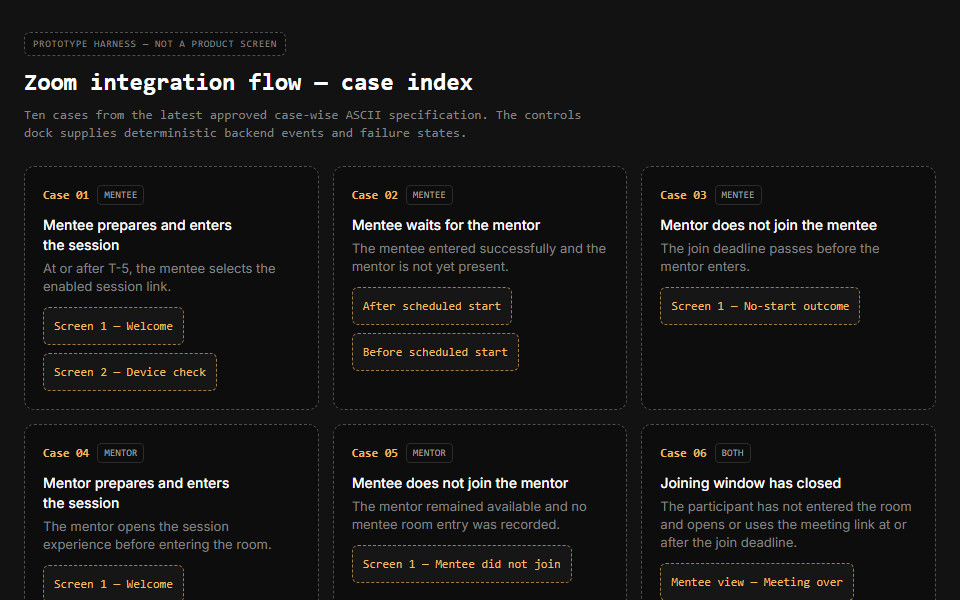
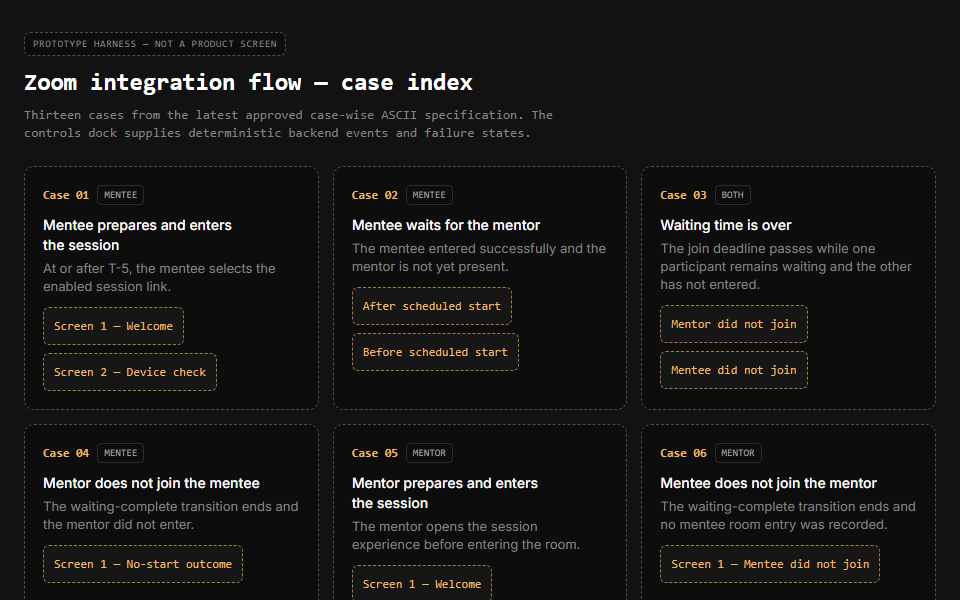
Add Zoom transition cases

diff --git a/prototypes/zoom-integration-flow/app.js b/prototypes/zoom-integration-flow/app.js
@@ -1,5 +1,5 @@
 /* ========================================================================== 
-   Zoom integration flow — latest approved ten-case prototype
+   Zoom integration flow — latest approved thirteen-case prototype
 
    Product content and behaviour: Case-wise ASCII Screen Designs.md
    Visual tokens and components: Mentor Union Design Schema
@@ -26,7 +26,8 @@
     support_deadline: '20 August 2026, 6:30 PM',
     time_until_start_seconds: 277,
     waiting_pre_seconds: 100,
-    waiting_deadline_seconds: 297
+    waiting_deadline_seconds: 297,
+    transition_seconds: 10
   };
 
   var DEVICE_BASE = {
@@ -60,9 +61,10 @@
       chatDraft: '',
       messages: [],
       feedbackRole: 'mentee',
-      feedback: { c08: blankFeedback(), c09: blankFeedback(), c10: blankFeedback() },
+      feedback: { c11: blankFeedback(), c12: blankFeedback(), c13: blankFeedback() },
       bridgeRole: 'mentee',
       participantRole: 'mentee',
+      waitingMissing: 'mentor',
       earlyExitPrompt: true,
       endLabel: '',
       endMessage: ''
@@ -127,23 +129,27 @@
     '/c01/welcome': { caseId: '01', role: 'mentee', label: 'Case 01 · Screen 1 — Mentee welcome', bar: false },
     '/c01/device': { caseId: '01', role: 'mentee', label: 'Case 01 · Screen 2 — Mentee device check', bar: true },
     '/c02/waiting': { caseId: '02', role: 'mentee', label: 'Case 02 · Screen 1 — Waiting for the mentor', bar: true },
-    '/c03/outcome': { caseId: '03', role: 'mentee', label: 'Case 03 · Screen 1 — Mentee no-start outcome', bar: true },
-    '/c04/welcome': { caseId: '04', role: 'mentor', label: 'Case 04 · Screen 1 — Mentor welcome', bar: false },
-    '/c04/device': { caseId: '04', role: 'mentor', label: 'Case 04 · Screen 2 — Mentor device check', bar: true },
-    '/c05/outcome': { caseId: '05', role: 'mentor', label: 'Case 05 · Screen 1 — Mentee did not join', bar: true },
-    '/c06/expired': { caseId: '06', role: 'both', label: 'Case 06 · Screen 1 — Meeting over and attendance recorded', bar: true },
-    '/c07/session': { caseId: '07', role: 'both', label: 'Case 07 · Screen 1 — Confirm early exit', bar: true },
-    '/c08/reflection': { caseId: '08', role: 'mentee', label: 'Case 08 · Screen 1 — Mentee session reflection', bar: false },
-    '/c09/reflection': { caseId: '09', role: 'mentor', label: 'Case 09 · Screen 1 — Mentor session reflection', bar: false },
-    '/c10/experience': { caseId: '10', role: 'both', label: 'Case 10 · Screen 1 — MentorUnion and Zoom experience', bar: false },
+    '/c03/waiting-complete': { caseId: '03', role: 'both', label: 'Case 03 · Screen 1 — Waiting-complete transition', bar: true },
+    '/c04/outcome': { caseId: '04', role: 'mentee', label: 'Case 04 · Screen 1 — Mentee no-start outcome', bar: true },
+    '/c05/welcome': { caseId: '05', role: 'mentor', label: 'Case 05 · Screen 1 — Mentor welcome', bar: false },
+    '/c05/device': { caseId: '05', role: 'mentor', label: 'Case 05 · Screen 2 — Mentor device check', bar: true },
+    '/c06/outcome': { caseId: '06', role: 'mentor', label: 'Case 06 · Screen 1 — Mentee did not join', bar: true },
+    '/c07/expired': { caseId: '07', role: 'both', label: 'Case 07 · Screen 1 — Meeting over and attendance recorded', bar: true },
+    '/c08/session': { caseId: '08', role: 'both', label: 'Case 08 · Screen 1 — Confirm early exit', bar: true },
+    '/c09/acknowledgement': { caseId: '09', role: 'mentee', label: 'Case 09 · Screen 1 — Thank you to the mentee', bar: true },
+    '/c10/acknowledgement': { caseId: '10', role: 'mentor', label: 'Case 10 · Screen 1 — Thank you to the mentor', bar: true },
+    '/c11/reflection': { caseId: '11', role: 'mentee', label: 'Case 11 · Screen 1 — Mentee session reflection', bar: false },
+    '/c12/reflection': { caseId: '12', role: 'mentor', label: 'Case 12 · Screen 1 — Mentor session reflection', bar: false },
+    '/c13/experience': { caseId: '13', role: 'both', label: 'Case 13 · Screen 1 — MentorUnion and Zoom experience', bar: false },
     '/bridge': { harness: true, label: 'Prototype bridge — in-session' },
     '/end': { harness: true, label: 'Prototype — flow complete' }
   };
 
   var CASE_START = {
-    '01': '/c01/welcome', '02': '/c02/waiting', '03': '/c03/outcome', '04': '/c04/welcome',
-    '05': '/c05/outcome', '06': '/c06/expired', '07': '/c07/session', '08': '/c08/reflection',
-    '09': '/c09/reflection', '10': '/c10/experience'
+    '01': '/c01/welcome', '02': '/c02/waiting', '03': '/c03/waiting-complete', '04': '/c04/outcome',
+    '05': '/c05/welcome', '06': '/c06/outcome', '07': '/c07/expired', '08': '/c08/session',
+    '09': '/c09/acknowledgement', '10': '/c10/acknowledgement', '11': '/c11/reflection',
+    '12': '/c12/reflection', '13': '/c13/experience'
   };
 
   function route() {
@@ -163,6 +169,10 @@
     if (variant === 'mentor' || variant === 'mentee') {
       state.participantRole = variant;
       state.bridgeRole = variant;
+    }
+    if (variant === 'mentor-missing' || variant === 'mentee-missing') {
+      state.waitingMissing = variant === 'mentor-missing' ? 'mentor' : 'mentee';
+      state.participantRole = state.waitingMissing === 'mentor' ? 'mentee' : 'mentor';
     }
     currentCase = ROUTES[next].caseId || null;
     if (route() === next) {
@@ -212,7 +222,7 @@
       '<div class="stack-sm"><h2 class="section-title">' + esc(listTitle) + '</h2>' +
       '<ol class="guide">' + items.map(function (item) { return '<li>' + esc(item) + '</li>'; }).join('') + '</ol></div>' +
       '<p class="body-copy">' + esc(closing) + '</p>' +
-      '<button class="btn primary full" type="button" data-action="go" data-route="' + (mentee ? '/c01/device' : '/c04/device') + '">Continue to device check</button>' +
+      '<button class="btn primary full" type="button" data-action="go" data-route="' + (mentee ? '/c01/device' : '/c05/device') + '">Continue to device check</button>' +
       '</section></div>';
   }
 
@@ -314,6 +324,34 @@
       '</div></div>';
   }
 
+  function transitionCountdown(label) {
+    var seconds = timerState ? timerState.seconds : S.transition_seconds;
+    return '<div class="transition-status" role="status"><span>' + esc(label) + ' <strong id="cd-num" data-format="seconds">' + seconds + '</strong> seconds...</span></div>';
+  }
+
+  function waitingCompleteScreen() {
+    var missingMentor = state.waitingMissing === 'mentor';
+    var otherParticipant = missingMentor ? S.mentor_name : S.mentee_name;
+    return '<div class="screen outcome-wrap"><section class="outcome-card card transition-card" aria-labelledby="waiting-complete-title">' +
+      '<div class="outcome-heading"><span class="outcome-icon">' + icon('clock') + '</span><h1 class="title small" id="waiting-complete-title">The waiting time is over</h1>' +
+      '<p class="subtitle">' + esc(otherParticipant) + ' did not join before ' + esc(S.join_deadline) + '.</p>' +
+      '<p class="body-copy">The joining window has now closed.</p></div>' +
+      '<p class="body-copy transition-copy">We will show the attendance status on the next screen.</p>' +
+      transitionCountdown('Continuing in') + '</section></div>';
+  }
+
+  function acknowledgementScreen(role) {
+    var mentee = role === 'mentee';
+    var counterpart = mentee ? S.mentor_name : S.mentee_name;
+    var heading = mentee ? 'Thank you for joining the session' : 'Thank you for hosting the session';
+    var closing = mentee ? 'Take a moment to reflect on how the conversation went.' : 'We appreciate the time and guidance you shared.';
+    return '<div class="screen outcome-wrap"><section class="outcome-card card transition-card" aria-labelledby="acknowledgement-title">' +
+      '<div class="outcome-heading"><span class="outcome-icon">' + icon('check') + '</span><h1 class="title small" id="acknowledgement-title">' + esc(heading) + '</h1>' +
+      '<p class="subtitle">Your session with ' + esc(counterpart) + ' is complete.</p>' +
+      '<p class="body-copy">' + esc(closing) + '</p></div>' +
+      transitionCountdown('Your session reflection will open in') + '</section></div>';
+  }
+
   function menteeOutcomeScreen() {
     return '<div class="screen outcome-wrap"><section class="outcome-card card" aria-labelledby="outcome-title">' +
       '<div class="outcome-heading"><span class="outcome-icon">' + icon('session') + '</span><h1 class="title small" id="outcome-title">The session could not start</h1>' +
@@ -324,7 +362,7 @@
       '</ul></div>' +
       '<div class="stack-sm"><h2 class="section-title">Session status</h2><div class="status-box"><strong>Verification in progress</strong></div></div>' +
       '<div class="actions"><button class="btn tertiary" type="button" data-action="report">Report a problem</button><span class="spacer"></span>' +
-      '<button class="btn primary" type="button" data-action="dashboard" data-label="Case 03">Go to dashboard</button></div>' +
+      '<button class="btn primary" type="button" data-action="dashboard" data-label="Case 04">Go to dashboard</button></div>' +
       '<p class="fineprint">Report an attendance or technical issue by ' + esc(S.support_deadline) + '.</p>' +
       '</section></div>';
   }
@@ -336,7 +374,7 @@
       '<div class="stack-sm"><h2 class="section-title">Recorded outcome</h2><div class="status-box"><strong>Mentee did not join</strong><span>Status: Outcome being confirmed</span></div></div>' +
       '<div class="stack-sm"><h2 class="section-title">What happens next</h2><ul class="bullet-list"><li>Your payout result will appear after the outcome is confirmed.</li><li>Report a platform, attendance, or timing issue if one occurred.</li></ul></div>' +
       '<div class="actions"><button class="btn tertiary" type="button" data-action="report">Report a problem</button><span class="spacer"></span>' +
-      '<button class="btn primary" type="button" data-action="dashboard" data-label="Case 05">Go to dashboard</button></div>' +
+      '<button class="btn primary" type="button" data-action="dashboard" data-label="Case 06">Go to dashboard</button></div>' +
       '<p class="fineprint">Report an attendance or technical issue by ' + esc(S.support_deadline) + '.</p>' +
       '</section></div>';
   }
@@ -351,7 +389,7 @@
       '<div><dt>Attendance</dt><dd>No-show recorded</dd></div></dl></div>' +
       '<p class="body-copy">If this does not look right, you can report it by ' + esc(S.support_deadline) + '.</p>' +
       '<div class="actions"><button class="btn tertiary" type="button" data-action="report">Report this</button><span class="spacer"></span>' +
-      '<button class="btn primary" type="button" data-action="dashboard" data-label="Case 06">Continue</button></div>' +
+      '<button class="btn primary" type="button" data-action="dashboard" data-label="Case 07">Continue</button></div>' +
       '</section></div>';
   }
 
@@ -399,7 +437,7 @@
 
   function reflectionScreen(role) {
     var mentee = role === 'mentee';
-    var form = mentee ? 'c08' : 'c09';
+    var form = mentee ? 'c11' : 'c12';
     var title = mentee ? 'Looking back on your session' : 'Looking back on the session';
     var intro = mentee
       ? 'Thinking about the conversation itself, share what supported you and what could have made the session more useful.'
@@ -434,34 +472,37 @@
   }
 
   function experienceScreen() {
-    var form = 'c10';
+    var form = 'c13';
     var questions = ratingScale(form, 'join', 'How easy was it to join the session?', 'Very difficult', 'Very easy') +
       ratingScale(form, 'controls', 'How easy were the session controls to use?', 'Very difficult', 'Very easy') +
       ratingScale(form, 'reliability', 'How reliable was the call experience?', 'Very unreliable', 'Very reliable') +
       ratingScale(form, 'support', 'How well did the platform support the conversation overall?', 'Not well at all', 'Extremely well');
-    return feedbackFrame('<form class="feedback-card card" data-feedback-form="c10" aria-labelledby="feedback-title">' +
+    return feedbackFrame('<form class="feedback-card card" data-feedback-form="c13" aria-labelledby="feedback-title">' +
       '<div class="feedback-head"><div><h1 class="title small" id="feedback-title">One last check-in</h1>' +
       '<p class="subtitle">A few quick ratings will help make future sessions feel smoother and more reliable. Think only about joining and using the session space.</p></div><span class="step-chip">Step 2 of 2</span></div>' +
       '<div class="question-list">' + questions +
-      commentField(form, 'c10-comment', 'Anything we could make smoother next time?') + '</div>' + feedbackFooter(form, 'Finish') + '</form>');
+      commentField(form, 'c13-comment', 'Anything we could make smoother next time?') + '</div>' + feedbackFooter(form, 'Finish') + '</form>');
   }
 
   var CASES = [
     { id: '01', role: 'Mentee', name: 'Mentee prepares and enters the session', trigger: 'At or after T-5, the mentee selects the enabled session link.', links: [['Screen 1 — Welcome', '/c01/welcome'], ['Screen 2 — Device check', '/c01/device']] },
     { id: '02', role: 'Mentee', name: 'Mentee waits for the mentor', trigger: 'The mentee entered successfully and the mentor is not yet present.', links: [['After scheduled start', '/c02/waiting', 'after'], ['Before scheduled start', '/c02/waiting', 'pre']] },
-    { id: '03', role: 'Mentee', name: 'Mentor does not join the mentee', trigger: 'The join deadline passes before the mentor enters.', links: [['Screen 1 — No-start outcome', '/c03/outcome']] },
-    { id: '04', role: 'Mentor', name: 'Mentor prepares and enters the session', trigger: 'The mentor opens the session experience before entering the room.', links: [['Screen 1 — Welcome', '/c04/welcome'], ['Screen 2 — Device check', '/c04/device']] },
-    { id: '05', role: 'Mentor', name: 'Mentee does not join the mentor', trigger: 'The mentor remained available and no mentee room entry was recorded.', links: [['Screen 1 — Mentee did not join', '/c05/outcome']] },
-    { id: '06', role: 'Both', name: 'Joining window has closed', trigger: 'The participant has not entered the room and opens or uses the meeting link at or after the join deadline.', links: [['Mentee view — Meeting over', '/c06/expired', 'mentee'], ['Mentor view — Meeting over', '/c06/expired', 'mentor']] },
-    { id: '07', role: 'Both', name: 'Participant leaves an active session early', trigger: 'During an active session, the participant selects Leave session before the scheduled end.', links: [['Mentee view — Confirm early exit', '/c07/session', 'mentee'], ['Mentor view — Confirm early exit', '/c07/session', 'mentor']] },
-    { id: '08', role: 'Mentee', name: 'Mentee reflection after a completed session', trigger: 'The backend confirms that the mentoring session was completed.', links: [['Screen 1 — Session reflection', '/c08/reflection']] },
-    { id: '09', role: 'Mentor', name: 'Mentor reflection after a completed session', trigger: 'The backend confirms that the mentoring session was completed.', links: [['Screen 1 — Session reflection', '/c09/reflection']] },
-    { id: '10', role: 'Both', name: 'Experience check-in after a completed session', trigger: 'The participant continues or skips their role-specific reflection.', links: [['Screen 1 — Experience check-in', '/c10/experience']] }
+    { id: '03', role: 'Both', name: 'Waiting time is over', trigger: 'The join deadline passes while one participant remains waiting and the other has not entered.', links: [['Mentor did not join', '/c03/waiting-complete', 'mentor-missing'], ['Mentee did not join', '/c03/waiting-complete', 'mentee-missing']] },
+    { id: '04', role: 'Mentee', name: 'Mentor does not join the mentee', trigger: 'The waiting-complete transition ends and the mentor did not enter.', links: [['Screen 1 — No-start outcome', '/c04/outcome']] },
+    { id: '05', role: 'Mentor', name: 'Mentor prepares and enters the session', trigger: 'The mentor opens the session experience before entering the room.', links: [['Screen 1 — Welcome', '/c05/welcome'], ['Screen 2 — Device check', '/c05/device']] },
+    { id: '06', role: 'Mentor', name: 'Mentee does not join the mentor', trigger: 'The waiting-complete transition ends and no mentee room entry was recorded.', links: [['Screen 1 — Mentee did not join', '/c06/outcome']] },
+    { id: '07', role: 'Both', name: 'Joining window has closed', trigger: 'The participant has not entered the room and opens or uses the meeting link at or after the join deadline.', links: [['Mentee view — Meeting over', '/c07/expired', 'mentee'], ['Mentor view — Meeting over', '/c07/expired', 'mentor']] },
+    { id: '08', role: 'Both', name: 'Participant leaves an active session early', trigger: 'During an active session, the participant selects Leave session before the scheduled end.', links: [['Mentee view — Confirm early exit', '/c08/session', 'mentee'], ['Mentor view — Confirm early exit', '/c08/session', 'mentor']] },
+    { id: '09', role: 'Mentee', name: 'Mentee completed-session acknowledgement', trigger: "The backend confirms that the mentee's mentoring session was completed.", links: [['Screen 1 — Thank you', '/c09/acknowledgement']] },
+    { id: '10', role: 'Mentor', name: 'Mentor completed-session acknowledgement', trigger: "The backend confirms that the mentor's mentoring session was completed.", links: [['Screen 1 — Thank you', '/c10/acknowledgement']] },
+    { id: '11', role: 'Mentee', name: 'Mentee reflection after a completed session', trigger: "The mentee's 10-second completed-session acknowledgement ends.", links: [['Screen 1 — Session reflection', '/c11/reflection']] },
+    { id: '12', role: 'Mentor', name: 'Mentor reflection after a completed session', trigger: "The mentor's 10-second completed-session acknowledgement ends.", links: [['Screen 1 — Session reflection', '/c12/reflection']] },
+    { id: '13', role: 'Both', name: 'Experience check-in after a completed session', trigger: 'The participant continues or skips their role-specific reflection.', links: [['Screen 1 — Experience check-in', '/c13/experience']] }
   ];
 
   function indexScreen() {
     return '<div class="hx-index"><header><span class="hx-tag">Prototype harness — not a product screen</span><h1>Zoom integration flow — case index</h1>' +
-      '<p class="hx-note">Ten cases from the latest approved case-wise ASCII specification. The controls dock supplies deterministic backend events and failure states.</p></header>' +
+      '<p class="hx-note">Thirteen cases from the latest approved case-wise ASCII specification. The controls dock supplies deterministic backend events and failure states.</p></header>' +
       '<div class="hx-grid">' + CASES.map(function (item) {
         return '<article class="hx-case"><div class="hx-case-head"><span class="hx-num">Case ' + item.id + '</span><span class="hx-role">' + item.role + '</span></div>' +
           '<h2>' + esc(item.name) + '</h2><p>' + esc(item.trigger) + '</p><div class="hx-links">' + item.links.map(function (link) {
@@ -474,9 +515,9 @@
     var mentor = state.bridgeRole === 'mentor';
     return '<div class="hx-screen"><section class="hx-card"><span class="hx-tag">Prototype bridge — not a product screen</span><h1>In-session experience</h1>' +
       '<p>The approved specification hands off to the established in-session experience, so this harness only exposes documented outcomes.</p><div class="hx-links">' +
-      '<button class="hx-btn go" type="button" data-action="complete-session" data-role="' + (mentor ? 'mentor' : 'mentee') + '">Session completed → Case ' + (mentor ? '09' : '08') + '</button>' +
-      '<button class="hx-btn" type="button" data-action="start-early-exit" data-role="' + (mentor ? 'mentor' : 'mentee') + '">Leave session early → Case 07</button>' +
-      (mentor ? '<button class="hx-btn" type="button" data-action="go" data-route="/c05/outcome">Mentee did not join → Case 05</button>' : '') +
+      '<button class="hx-btn go" type="button" data-action="complete-session" data-role="' + (mentor ? 'mentor' : 'mentee') + '">Session completed → Case ' + (mentor ? '10' : '09') + '</button>' +
+      '<button class="hx-btn" type="button" data-action="start-early-exit" data-role="' + (mentor ? 'mentor' : 'mentee') + '">Leave session early → Case 08</button>' +
+      (mentor ? '<button class="hx-btn" type="button" data-action="start-waiting-complete" data-missing="mentee">Mentee did not join → Case 03</button>' : '') +
       '<button class="hx-btn" type="button" data-action="open-case" data-route="/">Case index</button></div></section></div>';
   }
 
@@ -490,15 +531,18 @@
     '/c01/welcome': function () { return welcomeScreen('mentee'); },
     '/c01/device': function () { return deviceScreen('mentee'); },
     '/c02/waiting': waitingScreen,
-    '/c03/outcome': menteeOutcomeScreen,
-    '/c04/welcome': function () { return welcomeScreen('mentor'); },
-    '/c04/device': function () { return deviceScreen('mentor'); },
-    '/c05/outcome': mentorOutcomeScreen,
-    '/c06/expired': expiredMeetingScreen,
-    '/c07/session': activeSessionScreen,
-    '/c08/reflection': function () { return reflectionScreen('mentee'); },
-    '/c09/reflection': function () { return reflectionScreen('mentor'); },
-    '/c10/experience': experienceScreen,
+    '/c03/waiting-complete': waitingCompleteScreen,
+    '/c04/outcome': menteeOutcomeScreen,
+    '/c05/welcome': function () { return welcomeScreen('mentor'); },
+    '/c05/device': function () { return deviceScreen('mentor'); },
+    '/c06/outcome': mentorOutcomeScreen,
+    '/c07/expired': expiredMeetingScreen,
+    '/c08/session': activeSessionScreen,
+    '/c09/acknowledgement': function () { return acknowledgementScreen('mentee'); },
+    '/c10/acknowledgement': function () { return acknowledgementScreen('mentor'); },
+    '/c11/reflection': function () { return reflectionScreen('mentee'); },
+    '/c12/reflection': function () { return reflectionScreen('mentor'); },
+    '/c13/experience': experienceScreen,
     '/bridge': bridgeScreen,
     '/end': endScreen
   };
@@ -546,7 +590,7 @@
       }
     }
 
-    if (currentRoute === '/c07/session' && state.earlyExitPrompt && !dialog.open) {
+    if (currentRoute === '/c08/session' && state.earlyExitPrompt && !dialog.open) {
       state.earlyExitPrompt = false;
       window.setTimeout(openEarlyExitDialog, 0);
     }
@@ -585,7 +629,15 @@
 
   function paintTimer() {
     var number = document.getElementById('cd-num');
-    if (number && timerState) { number.textContent = mmss(timerState.seconds); }
+    if (number && timerState) {
+      number.textContent = number.dataset.format === 'seconds' ? timerState.seconds : mmss(timerState.seconds);
+    }
+  }
+
+  function enterWaitingComplete(missingRole) {
+    state.waitingMissing = missingRole;
+    state.participantRole = missingRole === 'mentor' ? 'mentee' : 'mentor';
+    go('/c03/waiting-complete');
   }
 
   function startWaitingTimer() {
@@ -594,16 +646,21 @@
         state.waitPhase = 'after';
         render();
         announce('The scheduled start has passed. The timer now counts down to the join deadline.');
-        startTimer(S.waiting_deadline_seconds, function () { go('/c03/outcome'); });
+        startTimer(S.waiting_deadline_seconds, function () { enterWaitingComplete('mentor'); });
       });
     } else {
-      startTimer(S.waiting_deadline_seconds, function () { go('/c03/outcome'); });
+      startTimer(S.waiting_deadline_seconds, function () { enterWaitingComplete('mentor'); });
     }
   }
 
   function startRouteTimer() {
     if (route() === '/c01/welcome') { startTimer(S.time_until_start_seconds, null); }
     if (route() === '/c02/waiting') { startWaitingTimer(); }
+    if (route() === '/c03/waiting-complete') {
+      startTimer(S.transition_seconds, function () { go(state.waitingMissing === 'mentor' ? '/c04/outcome' : '/c06/outcome'); });
+    }
+    if (route() === '/c09/acknowledgement') { startTimer(S.transition_seconds, function () { go('/c11/reflection'); }); }
+    if (route() === '/c10/acknowledgement') { startTimer(S.transition_seconds, function () { go('/c12/reflection'); }); }
   }
 
   function openDialog(config) {
@@ -626,7 +683,7 @@
       actions: [{ id: 'cancel', kind: 'ghost', label: 'Cancel' }, { id: 'leave', kind: 'destructive', label: 'Leave session' }],
       onAction: function (id) {
         if (id === 'leave') {
-          state.endLabel = 'Case 07';
+          state.endLabel = 'Case 08';
           state.endMessage = 'The requesting participant exited. The other participant remains connected.';
           go('/end');
         }
@@ -785,13 +842,17 @@
     }
     if (action === 'complete-session') {
       state.feedbackRole = control.dataset.role;
-      go(control.dataset.role === 'mentor' ? '/c09/reflection' : '/c08/reflection');
+      go(control.dataset.role === 'mentor' ? '/c10/acknowledgement' : '/c09/acknowledgement');
       return;
     }
     if (action === 'start-early-exit') {
       state.participantRole = control.dataset.role;
       state.earlyExitPrompt = true;
-      go('/c07/session');
+      go('/c08/session');
+      return;
+    }
+    if (action === 'start-waiting-complete') {
+      enterWaitingComplete(control.dataset.missing);
       return;
     }
   });
@@ -831,9 +892,9 @@
   });
 
   function afterFeedback(form) {
-    if (form === 'c08') { state.feedbackRole = 'mentee'; go('/c10/experience'); return; }
-    if (form === 'c09') { state.feedbackRole = 'mentor'; go('/c10/experience'); return; }
-    state.endLabel = 'Case 10';
+    if (form === 'c11') { state.feedbackRole = 'mentee'; go('/c13/experience'); return; }
+    if (form === 'c12') { state.feedbackRole = 'mentor'; go('/c13/experience'); return; }
+    state.endLabel = 'Case 13';
     go('/end');
   }
 
@@ -868,7 +929,10 @@
       { id: 'timer-zero', label: 'Advance current timer to 0:00' },
       { id: 'wait-pre', label: 'Show before-start timing state' },
       { id: 'wait-after', label: 'Show join-deadline timing state' }
-    ]
+    ],
+    '/c03/waiting-complete': [{ id: 'timer-zero', label: 'Advance transition to 0 seconds' }],
+    '/c09/acknowledgement': [{ id: 'timer-zero', label: 'Advance transition to 0 seconds' }],
+    '/c10/acknowledgement': [{ id: 'timer-zero', label: 'Advance transition to 0 seconds' }]
   };
 
   /* Screens reserve bottom padding for the floating dock. Measuring the dock
@@ -884,7 +948,7 @@
     if (currentRoute === '/') { dock.hidden = true; syncDockClearance(); return; }
     dock.hidden = false;
     var simulations = SIMULATIONS[currentRoute] || [];
-    var canFail = ['/c01/device', '/c04/device', '/c08/reflection', '/c09/reflection', '/c10/experience'].indexOf(currentRoute) !== -1;
+    var canFail = ['/c01/device', '/c05/device', '/c11/reflection', '/c12/reflection', '/c13/experience'].indexOf(currentRoute) !== -1;
     dockBody.hidden = !dockOpen;
     document.getElementById('dock-toggle').textContent = dockOpen ? 'Hide' : 'Show';
     document.getElementById('dock-toggle').setAttribute('aria-expanded', String(dockOpen));
@@ -907,14 +971,19 @@
     if (!control) { return; }
     var simulation = control.dataset.sim;
     if (simulation === 'index') { openCase('/'); return; }
-    if (simulation === 'restart') { openCase(CASE_START[ROUTES[route()].caseId]); return; }
+    if (simulation === 'restart') {
+      var caseId = ROUTES[route()].caseId;
+      var variant = caseId === '03' ? state.waitingMissing + '-missing' : ((caseId === '07' || caseId === '08') ? state.participantRole : undefined);
+      openCase(CASE_START[caseId], variant);
+      return;
+    }
     if (simulation === 'mentor-joins') { stopTimer(); state.bridgeRole = 'mentee'; go('/bridge'); return; }
     if (simulation === 'wait-pre') { stopTimer(); state.waitPhase = 'pre'; render(); startWaitingTimer(); return; }
     if (simulation === 'wait-after') { stopTimer(); state.waitPhase = 'after'; render(); startWaitingTimer(); return; }
     if (simulation === 'timer-zero' && timerState) {
       var callback = timerState.onZero;
       var number = document.getElementById('cd-num');
-      if (number) { number.textContent = '0:00'; }
+      if (number) { number.textContent = number.dataset.format === 'seconds' ? '0' : '0:00'; }
       stopTimer();
       if (callback) { callback(); }
     }

diff --git a/prototypes/zoom-integration-flow/styles.css b/prototypes/zoom-integration-flow/styles.css
@@ -211,6 +211,10 @@ select:disabled{color:var(--text-disabled);cursor:not-allowed}
 .status-box{padding:14px 16px;border:1px solid var(--border-subtle);border-radius:var(--radius-control);background:var(--surface-page)}
 .status-box strong{display:block;color:var(--text-primary);font-size:var(--fs-sm);line-height:var(--lh-sm);font-weight:var(--fw-medium)}
 .status-box span{display:block;margin-top:2px;color:var(--text-muted);font-size:var(--fs-xs);line-height:var(--lh-xs)}
+.transition-card{justify-content:center;text-align:center}
+.transition-copy{margin-inline:auto;text-align:center}
+.transition-status{width:100%;padding:14px 16px;border:1px solid var(--border-subtle);border-radius:var(--radius-control);background:var(--surface-page);color:var(--text-tertiary);font-size:var(--fs-sm);line-height:var(--lh-sm);text-align:left}
+.transition-status strong{color:var(--text-primary);font-weight:var(--fw-semibold);font-variant-numeric:tabular-nums}
 .attendance-list{margin:0;padding:0;border:1px solid var(--border-subtle);border-radius:var(--radius-control);background:var(--surface-page)}
 .attendance-list>div{padding:11px 14px;display:grid;grid-template-columns:minmax(112px,.7fr) minmax(0,1fr);gap:12px;border-top:1px solid var(--border-hairline)}
 .attendance-list>div:first-child{border-top:0}
